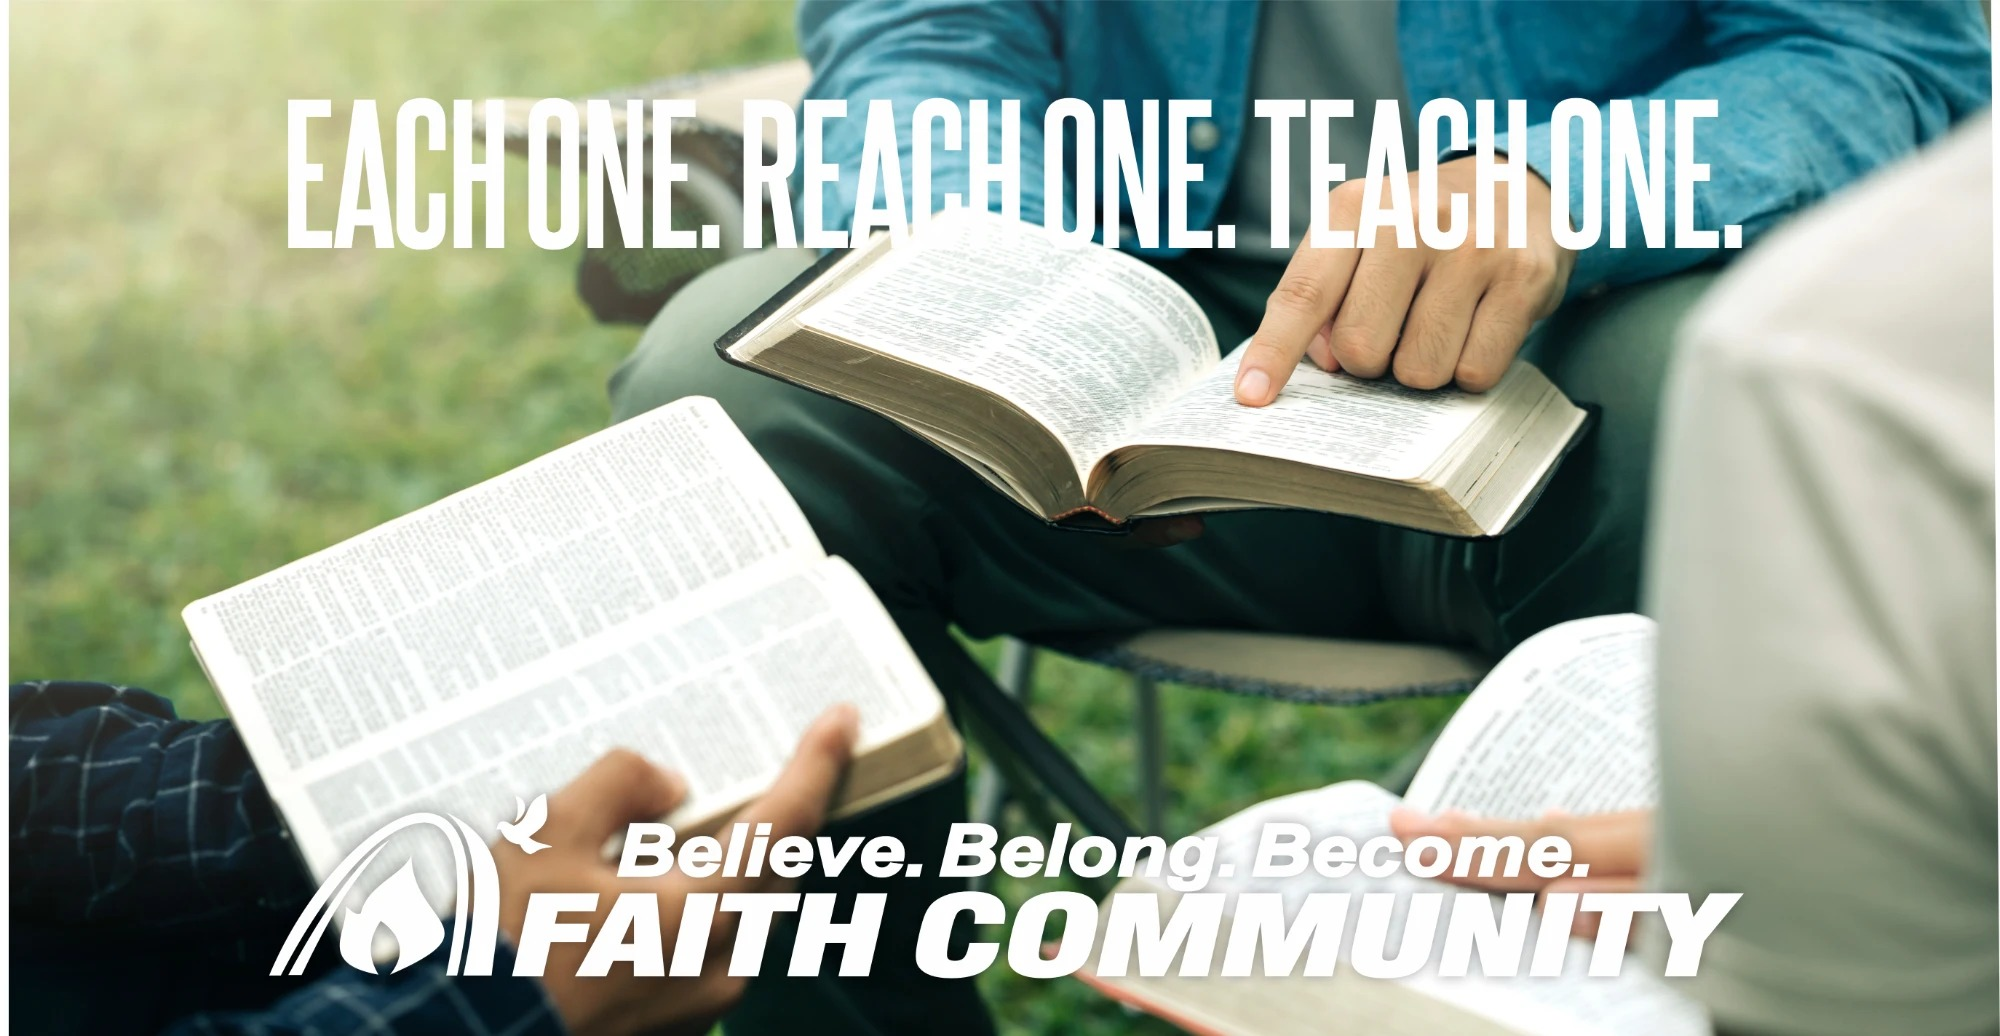
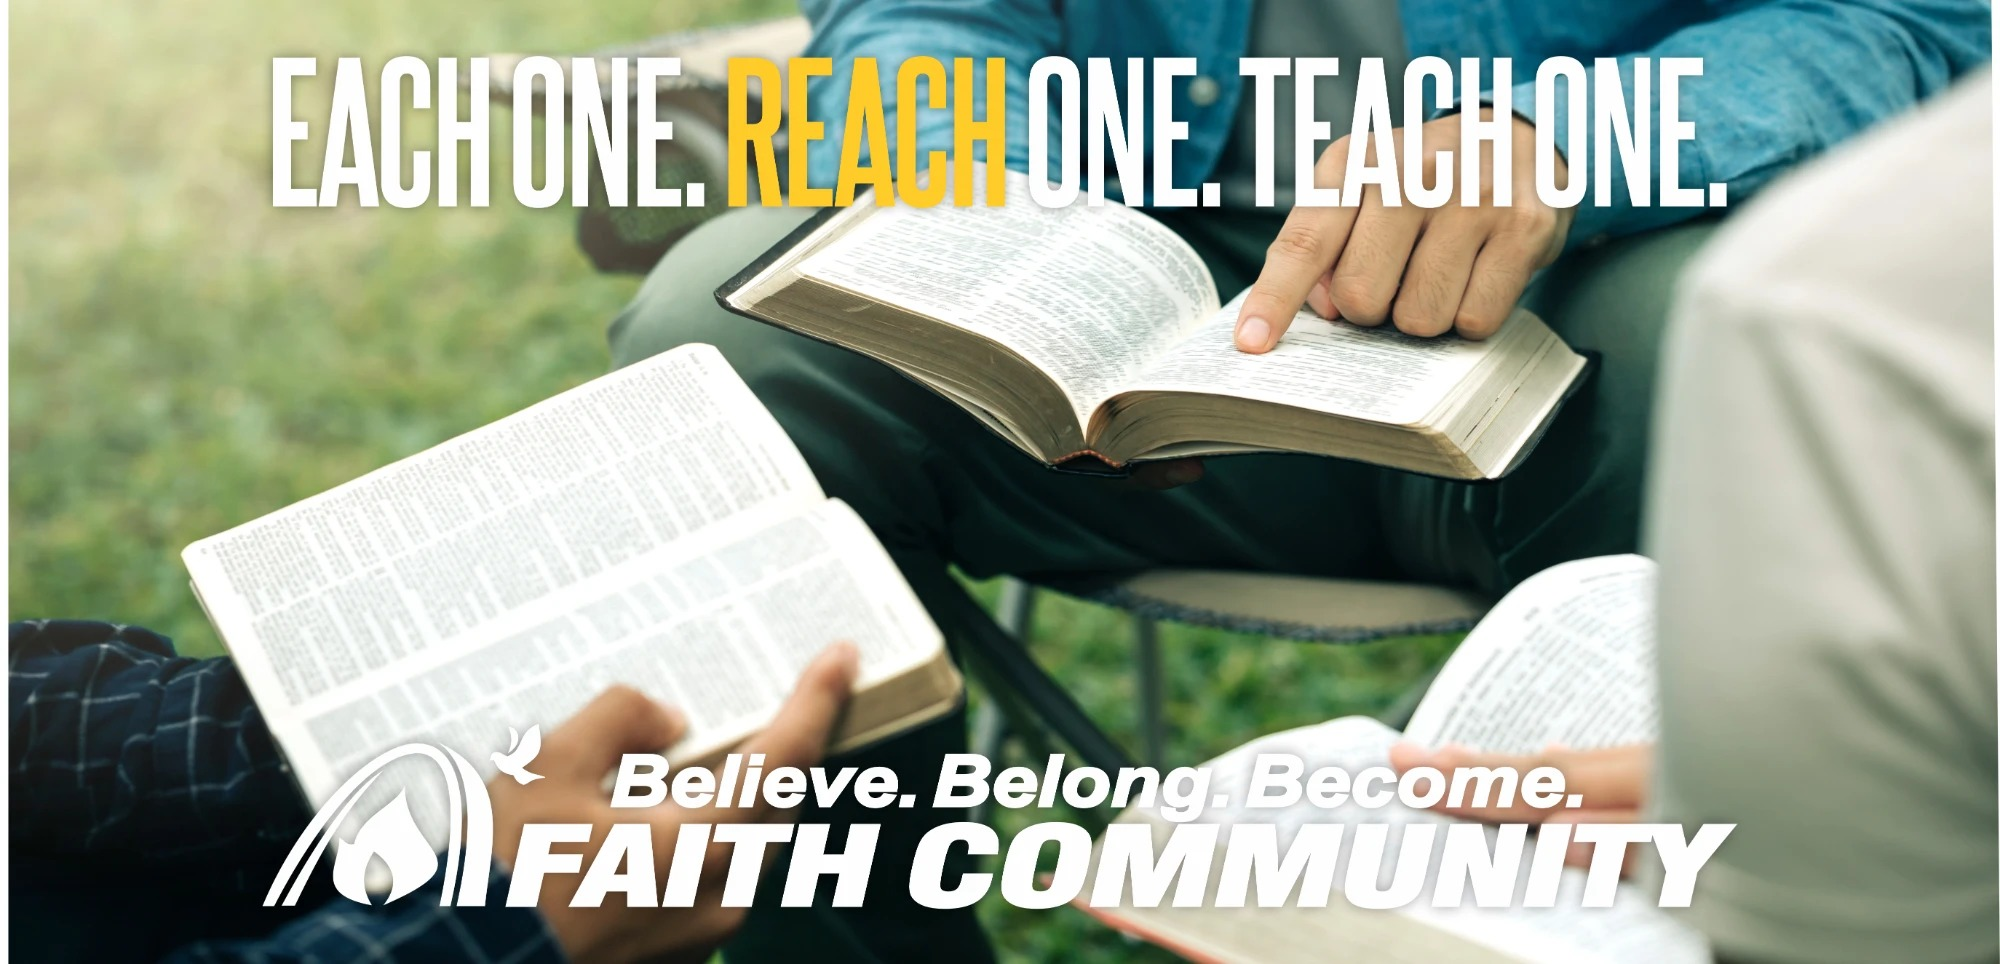
Use hero graphic with gold-highlighted REACH

diff --git a/src/app/page.tsx b/src/app/page.tsx
@@ -65,7 +65,7 @@ export default function HomePage() {
       </div>
 
       {/* Hero */}
-      <section className="relative aspect-[2000/1036] w-full overflow-hidden bg-black">
+      <section className="relative aspect-[2000/964] w-full overflow-hidden bg-black">
         <img
           src="/images/hero-congregation.jpg"
           alt="Each One. Reach One. Teach One. — Faith Community Church"
